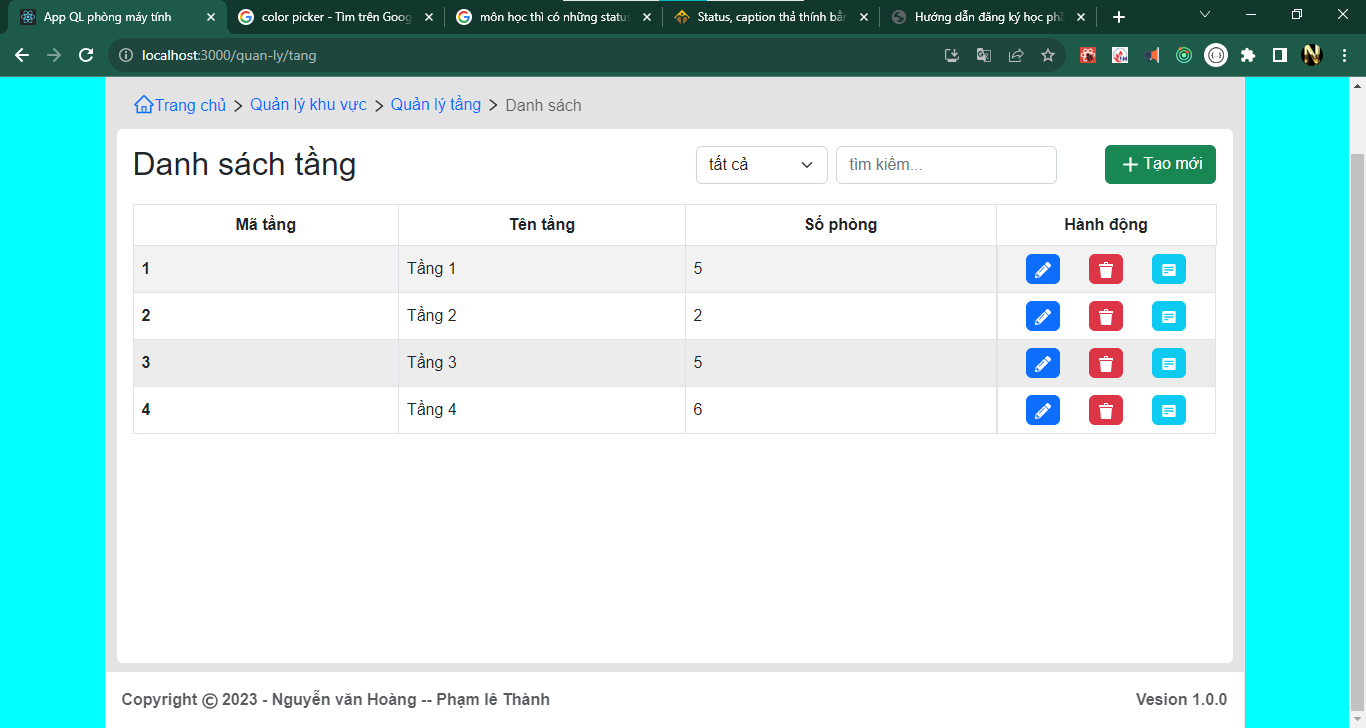
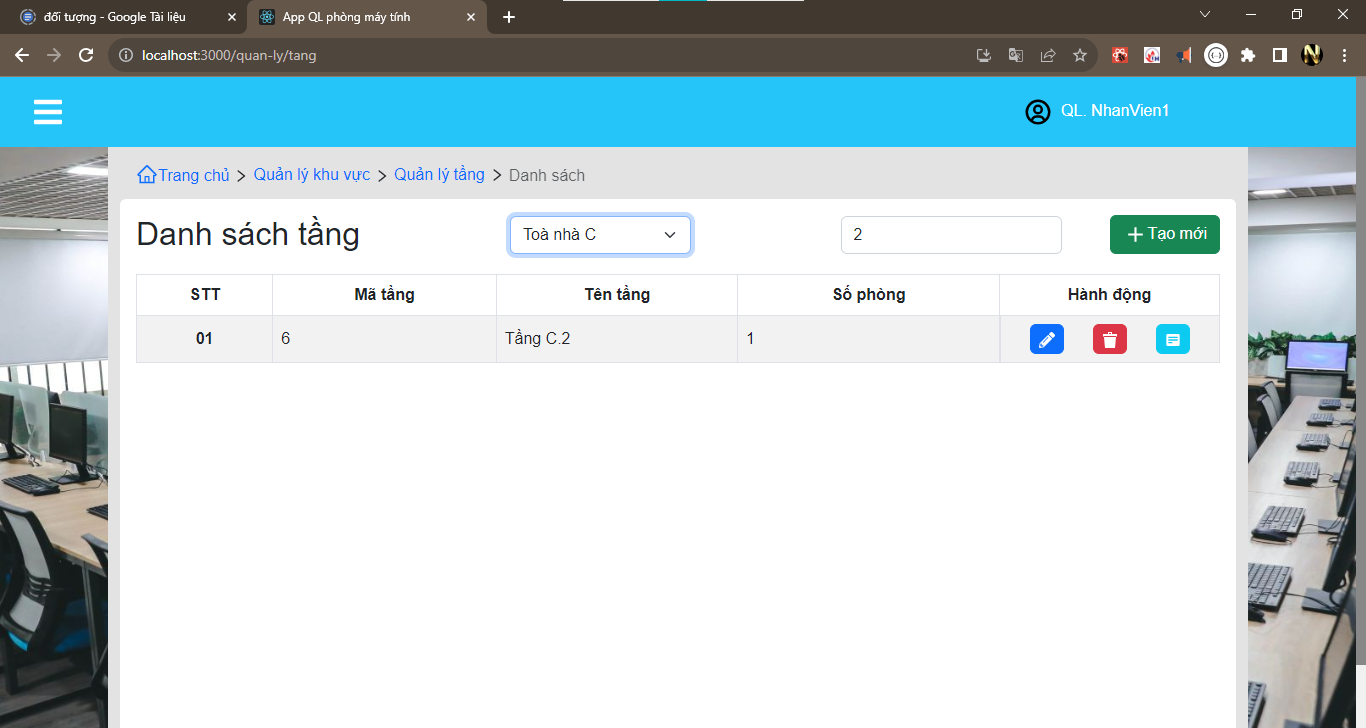
pageQlTang: update data theo APi - add event search

diff --git a/src/pages/PageQuanLy/PageQLTang.jsx b/src/pages/PageQuanLy/PageQLTang.jsx
@@ -9,6 +9,14 @@ import { FaPencilAlt } from "react-icons/fa";
 import { ImBin2 } from "react-icons/im";
 import { MdAdd } from "react-icons/md";
 import { BiSolidDetail } from "react-icons/bi";
+import { useDispatch, useSelector } from "react-redux";
+import {
+  getAllTangApi,
+  setValueSearchTangAction,
+  setValueSelectTangAction,
+} from "../../redux/reducers/tangReducer";
+import { getAllToaNhaApi } from "../../redux/reducers/toaNhaReducer";
+import { getAllPhongMayApi } from "../../redux/reducers/phongMayReducer";
 
 /**
  * giả đỉnh data tren server chua lấy về
@@ -20,94 +28,55 @@ const dataKhuVuc = Database.dataKhuVuc;
  */
 let dataLocal = [];
 let dataLocalKV = [];
-/**
- *lưu trữ 1 obj khu duoc goi den theo router
- */
-let objKhuVuc = {};
-
-const getAllTangApi = () => {
-  dataLocal = [...dataServer];
-};
-const getAllKhuVucApi = () => {
-  dataLocalKV = [...dataKhuVuc];
-};
-
-// fun getbyid_KhuVuc - APi
-const getKhuVucbyId = (idTim) => {
-  // tim khu vuc
-  objKhuVuc = dataLocalKV.find((item) => item.id == idTim);
-};
 
 const PageQLTang = (props) => {
   // 2. navigate -- dung de chuyeenr trang(component)
   const navigate = useNavigate();
+  const dispatch = useDispatch();
 
-  // sd useParams de nhan data truyen toi theo router
-  const params = useParams();
+  let { arrTangSearch } = useSelector((state) => state.tangReducer);
+  let { arrToaNha } = useSelector((state) => state.toaNhaReducer);
+  let { arrPhongMay } = useSelector((state) => state.phongMayReducer);
 
-  let [arrTang, setArrTang] = useState([]); // lưu trữ data sẽ thay đổi theo txtsearch
   let [txtSearch, setTxtSearch] = useState("");
 
   useEffect(() => {
-    if (dataLocal.length === 0 && dataLocalKV.length === 0) {
-      getAllTangApi();
-      getAllKhuVucApi();
-      if (params.id) {
-        // kiem tra ng dung mở trang này bằng all hay theo một id .
-        // so sanh neu nguoi dung vao theo 1 router id thi se lay obj khu vuc tu list Khuvuc
-        console.log(
-          "🚀 ~ file: PageQLTang.jsx:61 ~ useEffect ~ params.id:",
-          params.id
-        );
-        getKhuVucbyId(params.id); // tim vaf gan vao objKhuVuc
-      }
+    if (arrTangSearch.length === 0) {
+      dispatch(getAllTangApi);
     }
 
-    filterData();
-  }, [txtSearch]);
+    if (arrToaNha.length === 0) {
+      dispatch(getAllToaNhaApi);
+    }
 
-  //search
-  const handleSearchChange = (event) => {
-    setTxtSearch(event.target.value);
-  };
-  // Hàm tìm kiếm dựa trên giá trị của searchText
-  const filterData = () => {
-    const arrNew = dataLocal.filter((item) => {
-      const search = txtSearch.toLowerCase();
-      return (
-        (item.id + "").toLowerCase().includes(search) ||
-        item.name.toLowerCase().includes(search) ||
-        (item.soPhong + "").toLowerCase().includes(search)
-      );
-    });
-    setArrTang([...arrNew]);
-  };
+    if (arrPhongMay.length === 0) {
+      dispatch(getAllPhongMayApi);
+    }
+  }, []);
 
   //handle
-  //
+  //search
+  const handleSearchChange = (e) => {
+    dispatch(setValueSearchTangAction(e.target.value));
+  };
   const handleChangeSelect = (e) => {
     let { value } = e.target; // value == name cua obj khuvuc
-    if (value === "khuvuc_all") {
-      navigate(`../quan-ly/tang`);
-      return;
-    }
+    dispatch(setValueSelectTangAction(value))
 
-    let itemKhuVuc = dataLocalKV.find((item) => {
-      return item.name === value;
-    });
-
-    navigate(`../quan-ly/tang/${itemKhuVuc.id}`);
   };
 
   //
   const renderDataTang = () => {
-    return arrTang.map((item, index) => {
+    return arrTangSearch.map((item, index) => {
       return (
         <tr key={index}>
-          <td scope="row" style={{ fontWeight: 600, justifyItems: "center" }}>
-            {item.id}
+          <td scope="row" style={{ fontWeight: 600 }}>
+            <div className="d-flex justify-content-center">
+              {index < 9 ? `0${index + 1}` : index + 1}
+            </div>
           </td>
-          <td>{item.name}</td>
+          <td>{item.maTang}</td>
+          <td>{item.tenTang}</td>
           <td>{item.soPhong}</td>
           <td style={{ display: "flex", justifyContent: "space-evenly" }}>
             <NavLink
@@ -149,45 +118,20 @@ const PageQLTang = (props) => {
     });
   };
   //
-  const renderSelectTheoRouterKhuVuc = () => {
-    if (Object.keys(objKhuVuc).length === 0) {
-      // TH router all
-      return (
-        <div className="col-3 m-2">
-          <select
-            className="form-select"
-            aria-label="Default select example"
-            onChange={handleChangeSelect}
-            id="nameKV"
-          >
-            <option selected>tất cả</option>
-            {dataLocalKV.map((item, index) => {
-              return (
-                <option key={index} value={item.name}>
-                  {item.name}
-                </option>
-              );
-            })}
-          </select>
-        </div>
-      );
-    }
+  const renderSelectTheoKhuVuc = () => {
     return (
-      <div className="col-3 m-2">
+      <div className="col-2 m-2">
         <select
           className="form-select"
-          aria-label="Default select example"
           onChange={handleChangeSelect}
-          id="nameKV"
         >
-          <option selected>{objKhuVuc.name}</option>
-          <option value="khuvuc_all"> tất cả </option>
-          {dataLocalKV.map((item, index) => {
-            return item.name === objKhuVuc.name ? (
-              <></>
-            ) : (
-              <option key={index} value={item.name}>
-                {item.name}
+          <option value="-1" selected>
+            tất cả
+          </option>
+          {arrToaNha?.map((item, index) => {
+            return (
+              <option key={index} value={item.maToaNha}>
+                {item.tenToaNha}
               </option>
             );
           })}
@@ -226,18 +170,14 @@ const PageQLTang = (props) => {
               }}
             >
               <h2 style={{ margin: "0" }}>Danh sách tầng</h2>
+              {renderSelectTheoKhuVuc()}
               {/* input tim kiem */}
               <div style={{ display: "flex", alignItems: "center" }}>
-                {renderSelectTheoRouterKhuVuc()}
-
                 <div>
                   <input
                     type="text"
                     className="form-control"
-                    name
-                    id
                     placeholder="tìm kiếm..."
-                    value={txtSearch}
                     onChange={handleSearchChange}
                   />
                 </div>
@@ -259,6 +199,7 @@ const PageQLTang = (props) => {
               <table className="table bg-white table-hover table-striped table-bordered ">
                 <thead>
                   <tr>
+                    <th>STT</th>
                     <th scope="col">Mã tầng</th>
                     <th scope="col">Tên tầng</th>
                     <th scope="col">Số phòng</th>

diff --git a/src/redux/reducers/tangReducer.jsx b/src/redux/reducers/tangReducer.jsx
@@ -4,8 +4,11 @@ import { createSlice } from "@reduxjs/toolkit";
 import { http } from "../../util/config";
 
 const initialState = {
-  arrTang:[],
-  arrTangByLichTruc:[],//arrTang dung ở form LichTruc
+  arrTang: [],
+  arrTangSearch: [],
+  arrTangByLichTruc: [], //arrTang dung ở form LichTruc
+  valueSearch: "",
+  valueSelect: "",
 };
 
 const tangReducer = createSlice({
@@ -14,54 +17,104 @@ const tangReducer = createSlice({
   reducers: {
     setArrTangAction: (state, action) => {
       state.arrTang = action.payload;
+      state.arrTangSearch = action.payload;
     },
     setArrTangByLichTruc: (state, action) => {
       state.arrTangByLichTruc = action.payload;
     },
+    setValueSearchTangAction: (state, action) => {
+      state.valueSearch = action.payload;
+
+      let { arrTang, valueSelect } = state;
+
+      state.arrTangSearch = dataSearch(arrTang, action.payload, valueSelect);
+    },
+    setValueSelectTangAction: (state, action) => {
+      state.valueSelect = action.payload;
+
+      let { arrTang, valueSearch } = state;
+
+      state.arrTangSearch = dataSearch(arrTang, valueSearch, action.payload);
+    },
   },
 });
 // exp nay de sử dụng theo cách 2
-export const { 
+export const {
   setArrTangAction,
   setArrTangByLichTruc,
- } = tangReducer.actions;
+  setValueSearchTangAction,
+  setValueSelectTangAction,
+} = tangReducer.actions;
 export default tangReducer.reducer;
+
+const dataSearch = (arrData, valSearch, valSelect) => {
+  let search = valSearch.toLowerCase();
+  let arrUpdate = arrData.filter((item) => {
+    if (valSelect == -1 || valSelect.length === 0) {
+      return (
+        (item.maTang + "").toLowerCase().includes(search) ||
+        item.tenTang.toLowerCase().includes(search) ||
+        (item.soPhong + "").toLowerCase().includes(search)
+      );
+    }
+    return (
+      ((item.maTang + "").toLowerCase().includes(search) ||
+        item.tenTang.toLowerCase().includes(search) ||
+        (item.soPhong + "").toLowerCase().includes(search)) &&
+      item.toaNha.maToaNha == valSelect
+    );
+  });
+
+  return [...arrUpdate];
+};
 
 // Call Api ========================================
 
 export const getAllTangApi = async (dispatch) => {
   try {
     const result = await http.get("/DSTang");
+    let resultPhong = await http.get("/DSPhongMay");
 
-    dispatch(setArrTangAction(result.data));
-    
+    let dataUpdate = result.data.map((item, index) => {
+      let soPhong = 0;
+      resultPhong.data.forEach((itemPhong) => {
+        if (itemPhong.tang.maTang === item.maTang) {
+          soPhong++;
+        }
+      });
+      return { ...item, soPhong };
+    });
+
+    dispatch(setArrTangAction(dataUpdate));
   } catch (error) {
-    console.log("🚀 ~ file: tangReducer.jsx:30 ~ getAllTangApi ~ error:", error)
-    
+    console.log(
+      "🚀 ~ file: tangReducer.jsx:30 ~ getAllTangApi ~ error:",
+      error
+    );
   }
-} 
+};
 
 //
 export const getAllTangbyIdToaNha = (idToaNha) => {
-  
-  return async(dispatch) => {
+  return async (dispatch) => {
     try {
-      console.log('can api tang theo ma toa nha owr day');
+      console.log("can api tang theo ma toa nha owr day");
       const result = await http.get("/DSTang");
 
       // dispatch(setArrTangByLichTruc(result.data));
-      // 
-      
-      // 
-      const arrTang = result.data.filter(item => {
+      //
+
+      //
+      const arrTang = result.data.filter((item) => {
         return item.toaNha.maToaNha == idToaNha;
-      })
+      });
 
       dispatch(setArrTangByLichTruc([...arrTang]));
-      
     } catch (error) {
-      console.log("🚀 ~ file: tangReducer.jsx:44 ~ returnasync ~ error:", error)
-      
+      console.log(
+        "🚀 ~ file: tangReducer.jsx:44 ~ returnasync ~ error:",
+        error
+      );
     }
-  }
-}
+  };
+};
